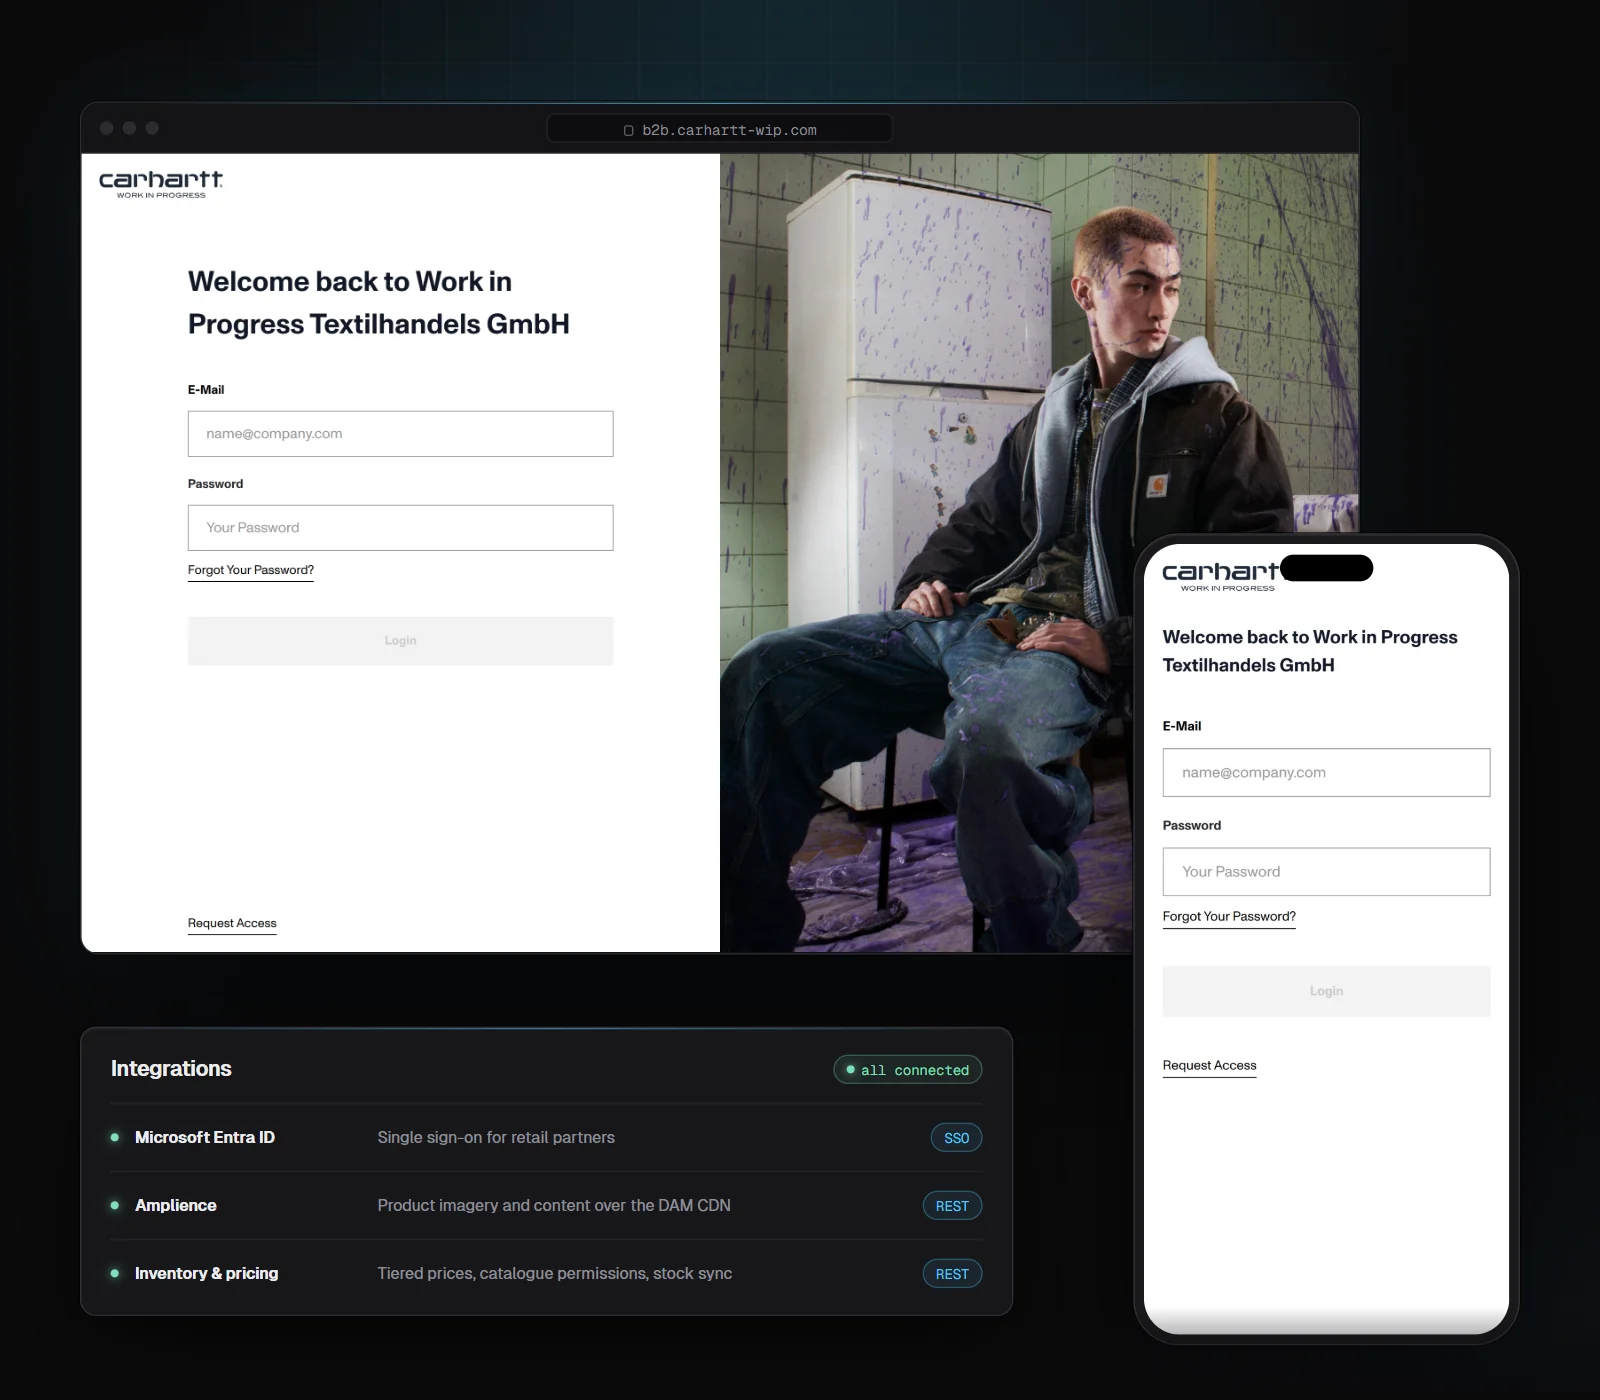
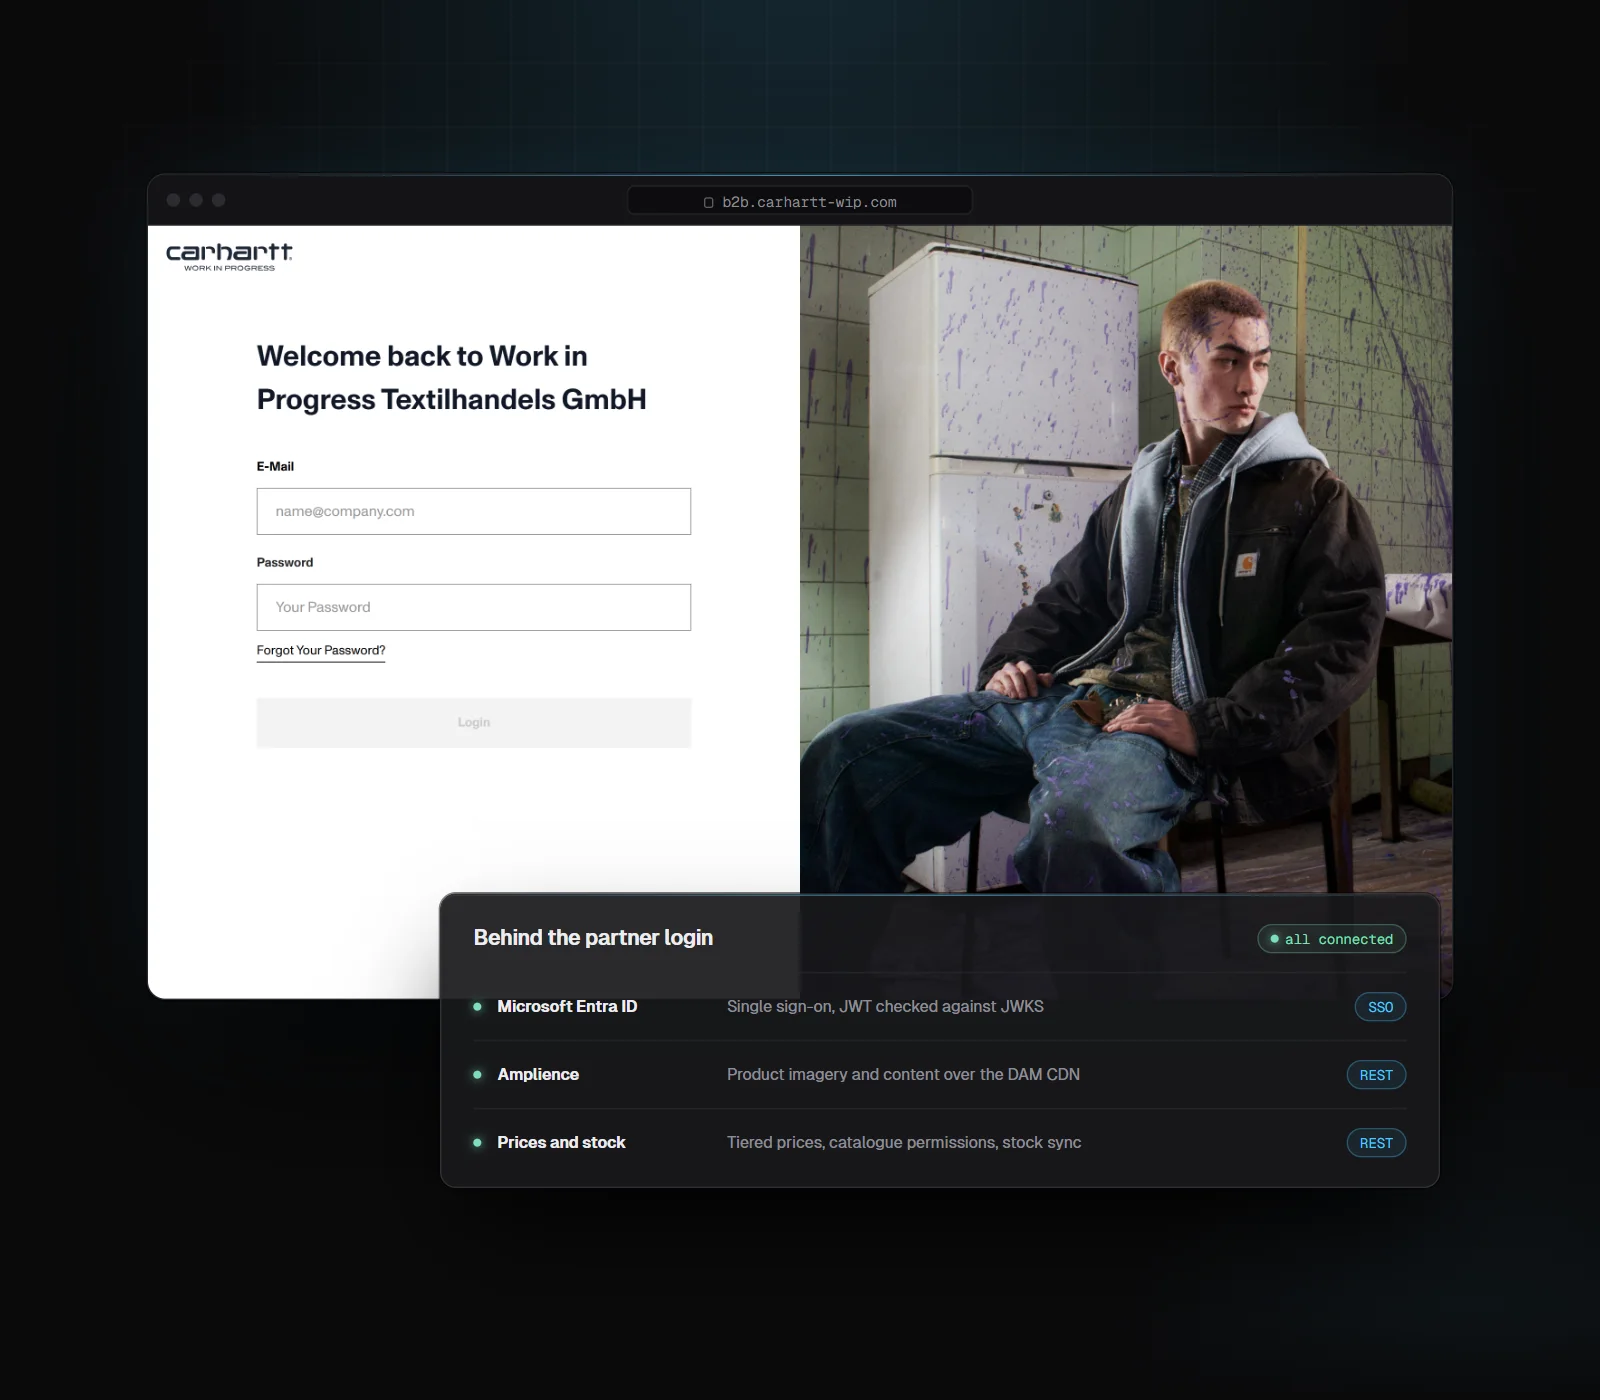
covers: show what sits behind the Carhartt partner login
The B2B store is login-only, so the featured project's cover was a
sign-in form and little else. That sign-in page is where the Entra ID
single sign-on lands, so the covers now keep it and put the
integrations behind it in front: Entra ID (JWT checked against JWKS),
Amplience over the DAM CDN, and prices and stock over REST.

- carhartt.webp gains the integrations panel it never had; the tall
  variant drops the phone (the same login again) and moves the panel
  up where the near-square bento card no longer crops it.
- Both keep their content inside 100–1100px: the card's parallax
  scale crops ~70px off each side.

diff --git a/scripts/covers/render.js b/scripts/covers/render.js
@@ -106,16 +106,25 @@ const app = (body, opts) => frame(`<div class="row" style="height:calc(100% - 38
 
 const TALL = { "carhartt-tall": 1050 };
 
+// The B2B store is behind a partner login, so the only public screen is the sign-in page.
+// That page is where the Entra ID single sign-on lands, so the cover shows it with what
+// sits behind it (the integrations I built) in front, rather than the login alone.
+const carharttIntegrations = (style) => `
+<div class="float" style="${style};padding:22px 24px">
+  <div class="row between"><span class="h2">Behind the partner login</span><span class="chip ok"><span class="led"></span>all connected</span></div>
+  ${[["Microsoft Entra ID", "Single sign-on, JWT checked against JWKS", "SSO"], ["Amplience", "Product imagery and content over the DAM CDN", "REST"], ["Prices and stock", "Tiered prices, catalogue permissions, stock sync", "REST"]]
+    .map(([n, d, t]) => `<div class="row g12" style="margin-top:14px;padding-top:14px;border-top:1px solid #26262b"><span class="led ok"></span><span class="b small" style="width:160px">${n}</span><span class="small muted f1">${d}</span><span class="chip ac">${t}</span></div>`).join("")}
+</div>`;
+
+// Client cards scale their cover by 1.12 for the scroll parallax, which crops ~70px off
+// each side, so the Carhartt compositions keep their content inside 100…1100px
 const COVERS = {
-  carhartt: () => device("carhartt", "b2b.carhartt-wip.com"),
+  carhartt: () => `
+${frame(`<img src="${shot("carhartt", "desktop")}">`, { addr: "b2b.carhartt-wip.com", x: 100, y: 56, w: 660, h: 445 })}
+${carharttIntegrations("left:470px;top:290px;width:620px")}`,
   "carhartt-tall": () => `
-${frame(`<img src="${shot("carhartt", "desktop")}">`, { addr: "b2b.carhartt-wip.com", x: 60, y: 76, w: 960, h: 640 })}
-<div class="phone" style="left:850px;top:400px;width:290px"><img src="${shot("carhartt", "mobile")}"></div>
-<div class="float" style="left:60px;top:770px;width:700px;padding:20px 22px">
-  <div class="row between"><span class="h2">Integrations</span><span class="chip ok"><span class="led"></span>all connected</span></div>
-  ${[["Microsoft Entra ID", "Single sign-on for retail partners", "SSO"], ["Amplience", "Product imagery and content over the DAM CDN", "REST"], ["Inventory & pricing", "Tiered prices, catalogue permissions, stock sync", "REST"]]
-    .map(([n, d, t]) => `<div class="row g12" style="margin-top:14px;padding-top:14px;border-top:1px solid #26262b"><span class="led ok"></span><span class="b small" style="width:170px">${n}</span><span class="small muted f1">${d}</span><span class="chip ac">${t}</span></div>`).join("")}
-</div>`,
+${frame(`<img src="${shot("carhartt", "desktop")}">`, { addr: "b2b.carhartt-wip.com", x: 110, y: 130, w: 980, h: 620 })}
+${carharttIntegrations("left:330px;top:670px;width:750px")}`,
   anita: () => device("anita", "www.anita.com"),
   edwin: () => device("edwin", "edwin-europe.com"),
   portfolio: () => device("portfolio", "mehdiaichouch.com"),

diff --git a/CLAUDE.md b/CLAUDE.md
@@ -28,7 +28,7 @@ Copy `.env.example` to `.env`. Every variable needs the `REACT_APP_` prefix and 
 
 - **Page layout:** `src/App.jsx` stacks the sections (`Home`, `About`, `Portfolio`, `Skills`, `Experience`, `Contact`) inside `LazyMotion`, `MotionConfig`, `LanguageProvider` and `ResumeModalProvider`. In production the HTML is prerendered and `src/index.js` hydrates it (`<App prerendered />`): every section is in the first render to match the HTML, each in its own `Suspense` boundary so React hydrates them one at a time after the hero (keeps Total Blocking Time down). On the dev server and in tests `#root` is empty: only the hero renders in the first pass, everything below the fold mounts right after inside `startTransition`, and a `#hash` deep link is re-applied once it has. Each section is a `<section id=…>`; navigation is plain `<a href="#id">` anchors, with CSS `scroll-behavior: smooth` and `scroll-padding-top: var(--nav-h)` doing the smoothing and header offset. The order comes from `src/data/navLinks.js`, labels from `nav.*` translations. Section headers (`common/SectionHeader.jsx`) are just the title and an intro line: no numbers or micro-labels, since the sections are not a sequence. Labels are sentence case (`.eyebrow` is small muted text, not uppercase mono), and meta strings are not joined with middle dots. The language switch is a glass track with an iris-edged lens (`.lang-switch`/`.lang-lens` in `index.css`) that springs between EN and FR via `layoutId`; it is mounted twice (desktop and mobile), so each instance gets its own `id`. Its buttons are named "English"/"Français" for screen readers. The desktop nav shows from `lg` (1024px) up because the French labels don't fit at `md`.
 - **i18n (EN/FR):** `src/context/LanguageContext.jsx` provides `t("dotted.key")`, which looks up `src/i18n/translations.js` and returns the key itself when nothing matches. The URL decides the language: `/` is English, `/fr` is French (`langFromPath` in `src/data/site.js`). Switching pushes the other URL with `history.pushState` and updates `<html lang>` and the title; the choice is also saved in `localStorage["lang"]`, which only serves to send a returning French visitor from `/` to `/fr` after mount. `t()` can also return arrays or objects. For example, `Experience.jsx` renders `t("experience")` (jobs with `org`, `role`, `date`, `points`), `t("education")` (degrees with `org`, `degree`, `note`) and `t("certification")`. Diplomas deliberately have no dates; only jobs do. Any user-facing text change has to be made in both the `en` and `fr` trees.
-- **Projects:** `src/data/projects.js` holds the metadata: image import, link, `hosted`, `category` (`commercial` | `freelance` | `opensource` | `personal`; the dialog's label comes from `portfolio.kind.<category>`, except client stores, which say "Case study"; `commercial` and `freelance` work belongs to clients and stays out of the JSON-LD), `tech`, and `descriptionKey`. The description text is at `portfolio.projects.<descriptionKey>` in both languages. `commercial` projects are shown twice: as the "live stores" links in the hero and as the bento cards at the top of `Portfolio.jsx`. Everything else goes in the project index below (`work/ProjectRow.jsx`: one ruled row per project with a small cover, kind, title, one line of description, the stack as plain text and the outside link; from `lg` the rows share the list's columns through `subgrid`), with `hosted` projects first (they link to the live site, e.g. CAFEA Espresso, whose repo is private) and then Magento projects; the rest link to GitHub. Every card and row opens `work/ProjectDetail.jsx`, a dialog whose image and title share a `layoutId` with the card or row (shared-element transition). Project images go in `src/assets/projects/`: 1200×630 WebP covers (rendered at 1600×840) that share one art direction with the site. They are generated, not hand-made: `scripts/covers/capture.js` screenshots the live client stores and this site (desktop + mobile), and `scripts/covers/render.js` builds every cover from HTML (real screenshots in a browser window + phone for client stores and the portfolio, UI mockups in the site palette for the open-source projects). Both need `npm i --no-save puppeteer-core`; add a new project's mockup to `COVERS` in `render.js`. The featured bento card is roughly square from `lg` up, so it uses an optional taller cover (`srcTall`, e.g. `carhartt-tall.webp`, 1200×1050) through `<picture>`.
+- **Projects:** `src/data/projects.js` holds the metadata: image import, link, `hosted`, `category` (`commercial` | `freelance` | `opensource` | `personal`; the dialog's label comes from `portfolio.kind.<category>`, except client stores, which say "Case study"; `commercial` and `freelance` work belongs to clients and stays out of the JSON-LD), `tech`, and `descriptionKey`. The description text is at `portfolio.projects.<descriptionKey>` in both languages. `commercial` projects are shown twice: as the "live stores" links in the hero and as the bento cards at the top of `Portfolio.jsx`. Everything else goes in the project index below (`work/ProjectRow.jsx`: one ruled row per project with a small cover, kind, title, one line of description, the stack as plain text and the outside link; from `lg` the rows share the list's columns through `subgrid`), with `hosted` projects first (they link to the live site, e.g. CAFEA Espresso, whose repo is private) and then Magento projects; the rest link to GitHub. Every card and row opens `work/ProjectDetail.jsx`, a dialog whose image and title share a `layoutId` with the card or row (shared-element transition). Project images go in `src/assets/projects/`: 1200×630 WebP covers (rendered at 1600×840) that share one art direction with the site. They are generated, not hand-made: `scripts/covers/capture.js` screenshots the live client stores and this site (desktop + mobile), and `scripts/covers/render.js` builds every cover from HTML (real screenshots in a browser window + phone for client stores and the portfolio, except Carhartt: its B2B store is behind a partner login, so its covers show the sign-in page with the integrations behind it in front; client covers keep their content inside 100–1100px because the card parallax crops the edges; UI mockups in the site palette for the open-source projects). Both need `npm i --no-save puppeteer-core`; add a new project's mockup to `COVERS` in `render.js`. The featured bento card is roughly square from `lg` up, so it uses an optional taller cover (`srcTall`, e.g. `carhartt-tall.webp`, 1200×1050) through `<picture>`.
 - **Resume PDFs are the source of truth for content.** Skills is a typeset list (one ruled row per area, tools set as text with their icons), not a grid of cards. Experience bullets, client-store contributions and `SKILL_GROUPS` in `Skills.jsx` mirror the PDFs in `public/` (spoken languages come from `t("skills.spoken")`; brand icons for skills live in `components/skills/skillIcons.js`, an idle-loaded chunk, and `HAS_ICON` in `Skills.jsx` must list the same names so space is reserved). When the resumes change, update the site and `SYSTEM_PROMPT` to match. Contact and social URLs live in `src/data/contactLinks.js`.
 - **Design system:** dark "futuristic, premium, calm" theme. All colors are semantic CSS variables in `src/index.css` (`--bg`, `--surface`, `--surface-2`, `--text`, `--muted`, `--border`, `--border-strong`, `--accent` #4CC9FF, `--accent-soft`, `--live`, `--danger`) mapped to Tailwind names in `tailwind.config.js` (`canvas`, `surface`, `fg`, `muted`, `line`, `accent`, `live`, `danger`), so a light theme only needs to redefine the variables. The cyan accent is used sparingly (CTAs, focus rings, active states); green (`live`) is only for the live-store dot. Radii, shadows, the easing curve and the three durations (150/400/800 ms) are tokens too, mirrored for JS in `src/lib/motion.js`. Fonts: Geist 400/600 and Geist Mono 400, self-hosted in `public/fonts/` (subset to Latin + punctuation, preloaded, `@font-face` in `public/index.html`). The font-weight scale is replaced, so only `font-normal`/`font-semibold` exist. Shared classes (`.page`, `.section`, `.eyebrow`, `.section-title`, `.btn-primary`, `.btn-secondary`, `.text-link`, `.chip`, `.card`, `.spotlight`, `.grid-bg`) are in `src/index.css`. There is no logo mark, only the text wordmark. Texture layer, all static CSS (nothing loops): `--iris` is the holographic spectrum (cyan → violet → pink → mint) on the active language in the switch (`.iris-text`), the lens edge, the fluted pane's edge and the footer wordmark (with `--grain-strong`); the hero has a blueprint `.grid-bg` (16/80px cells), a grainy iridescent `.hero-aura` behind a `.fluted` glass pane, and a dot-matrix floor under the stack; `.section::before` draws blueprint "+" marks at the column edges; `.topo-bg` (contours in `src/assets/textures/topo.svg`, generated by marching squares) sits behind Skills and the footer; `.halftone` turns project covers and the portrait into a grayscale dot screen that clears to colour on hover (lighter screen, full colour on touch); `common/AsciiField.jsx` is the ASCII mountain landscape at the bottom of Contact (`suppressHydrationWarning`, since it is computed with `Math.sin`).
 - **Motion:** `motion` (`motion/react`) with `LazyMotion strict`, so components must use `m.*`, never `motion.*`; features (`domMax`) are passed synchronously (loading them async re-rendered the whole tree in one long task when they arrived). Primitives in `src/components/motion/`: `Reveal` (fade-up once), `SplitHeading` (word-masked title reveal), `ScrollText` (scroll-linked word opacity), `Magnetic` (CTAs); `usePointerCard` gives cards the cursor spotlight and tilt without re-rendering. Animate only `transform`/`opacity`. `MotionConfig reducedMotion="user"` plus the CSS reduced-motion block handle `prefers-reduced-motion`. Premium layer on top: `lib/smoothScroll.js` starts Lenis inertial scrolling on fine-pointer devices only, as a lazy chunk once the page is idle, and skips it with reduced motion. It honours `scroll-padding-top` for anchors, so give it no extra offset. It pauses while `body.overflow-hidden` (modals) is set and leaves `[role=dialog]`/`[data-lenis-prevent]` boxes to scroll natively. Use `scrollToTarget()` for programmatic scrolls. Lenis is stepped from Motion's frame loop (`frame.update`, not its own `autoRaf`), and scroll-driven code reads in `frame.read` and writes in `frame.render` (`ScrollProgress`, `useScrolled`, the nav's active section, which also caches section offsets until the page resizes): reading `scrollY`/`scrollHeight` in a plain rAF after Motion's writes forces an extra style pass every frame. The hero's pointer/scroll writes only run while the hero is on screen, and its request loop is paused off screen (`.is-paused`). The nav stays visible at all times (it used to hide on scroll-down, which hid the scroll progress line with it). Its bottom line is `NavWave.jsx` on desktop with a mouse and motion allowed: a liquid line that dips under the hovered link on an underdamped spring (bounces, then rests at 13px) while the previous dip sinks back critically damped; the section being read keeps a 6px resting dip. Each dip has a cyan crest, a faint wash and a frosted strip clipped to its shape; it is drawn in an SVG below the nav, and the nav's own border is hidden through the `data-liquid` attribute (an attribute, because React rewrites `className` on every render). The loop only runs while a dip is moving. Link positions are re-measured whenever a link resizes (fonts arriving, the EN/FR switch) and before each hover, or the dip lands beside the link. Nav links hover to a soft fill and cyan text. `RollText` is the hover text roll on CTAs (needs `group` on the button). `.hero-in` (CSS, `--d` delay) sequences the hero after the headline; the subline is left out because it can be the LCP element. Project images get a curtain + settle reveal and client cards a scroll parallax (`MediaImage` in `ProjectCard.jsx`), and `work/CursorPill.jsx` is the "Case study →" pill that replaces the cursor over cards (fine pointer only). Experience dots light up as the progress line reaches them. The footer has the giant gradient wordmark (`.footer-mark`) and the live Fès local time. On large screens (≥1024×640) it is a curtain: `<main>` (`.page-sheet`, opaque, rounded bottom) scrolls up off the footer, which is pinned underneath (`.footer-curtain`, sticky with `z-index: -1`). This only works because the App wrapper `<div>` is `isolate`, which keeps the footer clickable. The chat and resume modal live inside that wrapper so their z-indexes still rank against the nav and dialogs. The wordmark rise is driven by the reveal progress (`useFooterReveal`), not `whileInView`, since the pinned footer always counts as in view. The desktop nav has a shared-layout active pill (`layoutId="nav-active"`). Switching language crossfades the page with the View Transitions API (`LanguageContext`, skipped with reduced motion). The email row in Contact has a copy button.
